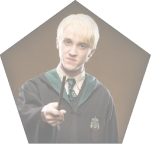
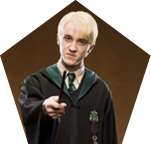
ajustei a descrição dos personagens

diff --git a/index.html b/index.html
@@ -72,7 +72,7 @@
                     <div class="conteiner--sobre--retangulo"></div>
                     <div class="head--nav--linha"></div>
                     <div class="conteiner--sobre--retangulo"></div>
-                    <h2>PERSONAGENS</h2>
+                    <h2>PRINCIPAIS PERSONAGENS</h2>
                     <div class="conteiner--sobre--retangulo"></div>
                     <div class="head--nav--linha"></div>
                     <div class="conteiner--sobre--retangulo"></div>
@@ -80,27 +80,87 @@
 
                 <div class="container--geral--personagens">
                     <div class="container--personagens--images">
-                        <img class="container--personagens--1" src="./images/HERMIONE 1.png" alt="hermione">
-                        <img class="container--personagens--2" src="./images/DRACO 1.png" alt="draco malfoy">
-                        <img class="container--personagens--3" src="./images/MENINO 01 2.png" alt="neville">
-                        <img class="container--personagens--4" src="./images/RONY 1.png" alt="ron weasley">
-                        <img class="container--personagens--5" src="./images/HARRY 1.png" alt="harry">
+
+
+                        <img class="container--personagens--1" src="./images/HERMIONE 1.png" alt="hermione" onclick="aparecer('imagem')">
+                        <div id="imagem" class="conteudo" style="display: none;" >                            
+                            <div class="descricao--1">
+                                <img class="img--personagem" src="images/HERMIONE 1.png" alt="">                            
+                                <div class="containerLinhas">            
+                                    <div class="conteiner--sobre--retangulovertical"></div>
+                                    <div class="head--nav--linhavertical"></div>
+                                    <div class="conteiner--sobre--retangulovertical"></div>
+                                </div>    
+                                <p class="container--personagem--descricao"><strong>Hermione Granger</strong> <br> é uma personagem dos livros "Harry Potter", escritos por J.K. Rowling. Ela é uma bruxa
+                                    brilhante, amiga próxima de Harry Potter e Ron Weasley, conhecida por sua inteligência e dedicação aos
+                                    estudos. Ao longo da série, Hermione desempenha um papel vital na resolução de desafios enfrentados pelo
+                                    trio principal. Sua ética de trabalho, conhecimento enciclopédico e senso de justiça a tornam uma
+                                    personagem distintiva na narrativa.
+                                </p>
+                            </div>
+                        </div>
+
+                        <img class="container--personagens--2" src="./images/DRACO 1.png" alt="draco malfoy" onclick="aparecer('imagem2')">
+                        <div id="imagem2" class="conteudo" style="display: none;" >                            
+                            <div class="descricao--2">
+                                <img class="img--personagem" src="images/DRACO 1.png" alt="">                            
+                                <div class="containerLinhas">            
+                                    <div class="conteiner--sobre--retangulovertical"></div>
+                                    <div class="head--nav--linhavertical"></div>
+                                    <div class="conteiner--sobre--retangulovertical"></div>
+                                </div>    
+                                <p class="container--personagem--descricao"><strong>Draco Malfoy</strong> <br> é um personagem da série Harry Potter, filho de uma família influente de bruxos. Ele é conhecido por sua arrogância e sua lealdade inicial à Casa Sonserina em Hogwarts. Draco é um rival constante de Harry Potter, muitas vezes tentando prejudicá-lo. No entanto, ao longo da série, sua moralidade é questionada e sua vulnerabilidade é revelada, mostrando camadas mais profundas em sua personalidade. Draco enfrenta conflitos internos entre as expectativas de sua família e suas próprias convicções.
+                                </p>
+                            </div>
+                        </div>
+
+
+
+
+                        <img class="container--personagens--3" src="./images/MENINO 01 2.png" alt="neville" onclick="aparecer('imagem3')">
+                        <div id="imagem3" class="conteudo" style="display: none;" >                            
+                            <div class="descricao--3">
+                                <img class="img--personagem" src="./images/MENINO 01 2.png" alt="">                            
+                                <div class="containerLinhas">            
+                                    <div class="conteiner--sobre--retangulovertical"></div>
+                                    <div class="head--nav--linhavertical"></div>
+                                    <div class="conteiner--sobre--retangulovertical"></div>
+                                </div>    
+                                <p class="container--personagem--descricao"><strong>Neville Longbottom</strong> <br> é um personagem importante na série "Harry Potter" de J.K. Rowling. Ele começa como um estudante inseguro e desajeitado da Casa Grifinória em Hogwarts, mas ao longo da série, ele se revela como um dos mais corajosos e leais amigos de Harry. Neville enfrenta desafios pessoais e traumas familiares, incluindo a perda de seus pais para os Comensais da Morte. Sua jornada é marcada por um notável crescimento em confiança e habilidade, culminando em momentos cruciais de heroísmo na luta contra Voldemort e seus seguidores. Neville personifica a ideia de que a verdadeira bravura muitas vezes vem de lugares inesperados e que o potencial para grandeza reside em cada um de nós.</p>
+                            </div>
+                        </div>
+
+
+                        <img class="container--personagens--4" src="./images/RONY 1.png" alt="ron weasley" onclick="aparecer('imagem4')" >
+                        <div id="imagem4" class="conteudo" style="display: none;" >                            
+                            <div class="descricao--4">
+                                <img class="img--personagem" src="./images/RONY 1.png" alt="">                            
+                                <div class="containerLinhas">            
+                                    <div class="conteiner--sobre--retangulovertical"></div>
+                                    <div class="head--nav--linhavertical"></div>
+                                    <div class="conteiner--sobre--retangulovertical"></div>
+                                </div>    
+                                <p class="container--personagem--descricao"><strong>Rony Weasley</strong> <br> é um dos melhores amigos de Harry Potter na série de livros "Harry Potter", de J.K. Rowling. Ele vem de uma família grande e humilde de bruxos, conhecida pela sua lealdade e coragem. Rony é descrito como sendo engraçado, leal e um pouco desajeitado, mas sempre disposto a enfrentar desafios ao lado de seus amigos. Ele é conhecido por sua amizade inabalável e por seu papel vital nas aventuras de Harry, Ron e Hermione em Hogwarts, onde ele é selecionado para a casa Grifinória. Ao longo da série, Rony amadurece e se destaca como um personagem valente e indispensável na luta contra as forças das trevas.</div>
+                        </div>
+
+
+                        <img class="container--personagens--5" src="./images/HARRY 1.png" alt="harry" onclick="aparecer('imagem5')">
+                        <div id="imagem5" class="conteudo" style="display: block;" >                            
+                            <div class="descricao--5">
+                                <img class="img--personagem" src="./images/HARRY 1.png" alt="">                            
+                                <div class="containerLinhas">            
+                                    <div class="conteiner--sobre--retangulovertical"></div>
+                                    <div class="head--nav--linhavertical"></div>
+                                    <div class="conteiner--sobre--retangulovertical"></div>
+                                </div>    
+                                <p class="container--personagem--descricao"><strong>Harry Potter</strong> <br> é o protagonista da série de livros homônima escrita por J.K. Rowling. Órfão de pais bruxos, Harry descobre aos onze anos que é um bruxo famoso por sobreviver ao ataque do bruxo das trevas, Lord Voldemort. Ele é matriculado na Escola de Magia e Bruxaria de Hogwarts, onde faz amigos leais e enfrenta desafios perigosos enquanto tenta descobrir mais sobre seu passado e seu destino como "O Menino que Sobreviveu". Ao longo da série, Harry é retratado como corajoso, compassivo e determinado, lutando contra as forças das trevas para proteger o mundo mágico e aqueles que ama.</div>
                     </div>
-                    <div class="container--personagens--main"> <img src="images/HERMIONE 1.png" alt="" width="500px">
+                    
                     </div>
 
-                    <div class="containerLinhas">            
-                        <div class="conteiner--sobre--retangulovertical"></div>
-                        <div class="head--nav--linhavertical"></div>
-                        <div class="conteiner--sobre--retangulovertical"></div>
-                    </div>
+                    
 
-                    <p class="container--personagem--descricao">Hermione Granger é uma personagem dos livros "Harry Potter", escritos por J.K. Rowling. Ela é uma bruxa
-                        brilhante, amiga próxima de Harry Potter e Ron Weasley, conhecida por sua inteligência e dedicação aos
-                        estudos. Ao longo da série, Hermione desempenha um papel vital na resolução de desafios enfrentados pelo
-                        trio principal. Sua ética de trabalho, conhecimento enciclopédico e senso de justiça a tornam uma
-                        personagem distintiva na narrativa.
-                    </p>    
+                       
                 </div>    
         </section>
 

diff --git a/global.css b/global.css
@@ -63,6 +63,7 @@
     padding-top: 15px;
     
     
+    
 }
    
 .container--sobre--titulo{
@@ -110,7 +111,7 @@
     text-align: center;
     justify-content: center;
     padding-right: 15px;   
-    min-width: 400px;
+    min-width: 600px;
     max-width: 1000px;
     
 }
@@ -142,44 +143,133 @@ h2{
     display: flex;
     justify-content: center;
     }  
-.container--geral--personagens{
+.container--geral--personagens{    
     display: flex;
+    position: absolute;
+    align-items: center;
 }    
 
-.container--personagens--images{    
-    width: 10%;
+.container--personagens--images{        
     position: relative;
 }    
     .container--personagens--1{
-        position: absolute;
+        position: relative;
         left: 215px;
+        max-width: 500px;
+        opacity: 50%;
+        transition: transform 0.5s; 
+        cursor: pointer;
     }
+        .container--personagens--1:hover{
+            transform: scale(1.3);
+            opacity: 100%;
+        }
+        
+
+        .descricao--1{    
+           display: flex;    
+           align-items: center;
+           gap: 10px;
+           padding-left: 400px;
+           margin-top: -100px;
+           height: 500px;     
+           
+        }
+        .img--personagem {
+            width: 70%;
+            height: 70%;
+            
+        }
+
     .container--personagens--2{
         position: absolute;
         left: 65px;
         top: 72px;
+        opacity: 50%;
+        transition: transform 0.5s;
+        cursor: pointer;
     }
+        .container--personagens--2:hover{
+            transform: scale(1.3);
+            opacity: 100%;
+        }
+
+        .descricao--2{    
+            display: flex;     
+            align-items: center;
+            gap: 10px;
+            padding-left: 400px;
+            margin-top: -100px;
+            height: 500px;                
+         }
+
     .container--personagens--3{
         position: absolute;
         left: 215px;
         top: 196px;
+        opacity: 50%;
+        transition: transform 0.5s;
+        cursor: pointer;
     }
+        .container--personagens--3:hover{
+            transform: scale(1.3);
+            opacity: 100%;
+        }
+        .descricao--3{    
+            display: flex;     
+            align-items: center;
+            gap: 10px;
+            padding-left: 400px;
+            margin-top: -100px;
+            height: 500px;                
+        }
+
     .container--personagens--4{
         position: absolute;
         left: 65px;
         top: 288px;
-    }
+        opacity: 50%;
+        transition: transform 0.5s;
+        cursor: pointer;
+    }   
+        .container--personagens--4:hover{
+            transform: scale(1.3);
+            opacity: 100%;}
+
+
+        .descricao--4{    
+            display: flex;     
+            align-items: center;
+            gap: 10px;
+            padding-left: 400px;
+            margin-top: -100px;
+            height: 500px;                
+        }
     .container--personagens--5{
         position: absolute;
         left: 215px;
-        top: 392px;}
+        top: 392px;
+        opacity: 50%;
+        transition: transform 0.5s;
+        cursor: pointer;}
+
+        .container--personagens--5:hover{
+            transform: scale(1.3);
+            opacity: 100%;}
+
+        .descricao--5{    
+            display: flex;     
+            align-items: center;
+            gap: 10px;
+            padding-left: 400px;
+            margin-top: -100px;
+            height: 500px;                
+         }
 
 
-.container--personagens--main{       
-    padding-left: 400px;
-    width: 1000px;   
    
-}
+   
+
 /* container geral linhas  */
 .containerLinhas{   
     display: flex;
@@ -187,6 +277,7 @@ h2{
     height: 1000px;
     align-items: center;
     flex-wrap: nowrap;   
+    margin-top: 500px;
       
 }   
 /* container retangulo */
@@ -211,11 +302,9 @@ h2{
     font-size: 24px;
     font-style: normal;
     font-weight: 400;
-    line-height: normal; 
-    text-align: justify;   
-    padding: 20px;
-    min-width: 400px;
+    min-width: 500px;
     max-width: 1000px;
+    
     }
 
 .container--casas{

diff --git a/script.js b/script.js
@@ -1,4 +1,4 @@
-function mostrarMensagem() {
+/*function mostrarMensagem() {
     // Oculta todas as mensagens
     var mensagens = document.querySelectorAll('.mensagem');
     mensagens.forEach(function(mensagem) {
@@ -65,4 +65,25 @@ function exibirDados(dados) {
     modalBody1.append(infos1)
     modalBody2.append(infos2)
     modalBody3.append(infos3)
+}*/
+
+function aparecer(idDiv){
+
+    var divsConteudo = document.querySelectorAll('.conteudo');
+        divsConteudo.forEach(function(div) {
+            div.style.display = 'none'
+        });
+
+        var divConteudo = document.getElementById(idDiv);
+        divConteudo.style.display = 'block';
+
 }
+
+
+
+
+    /*/
+ function aparecerDraco(){
+    imagem = document.getElementById("imagem2");
+    imagem.style.display = "block";
+ }*/
